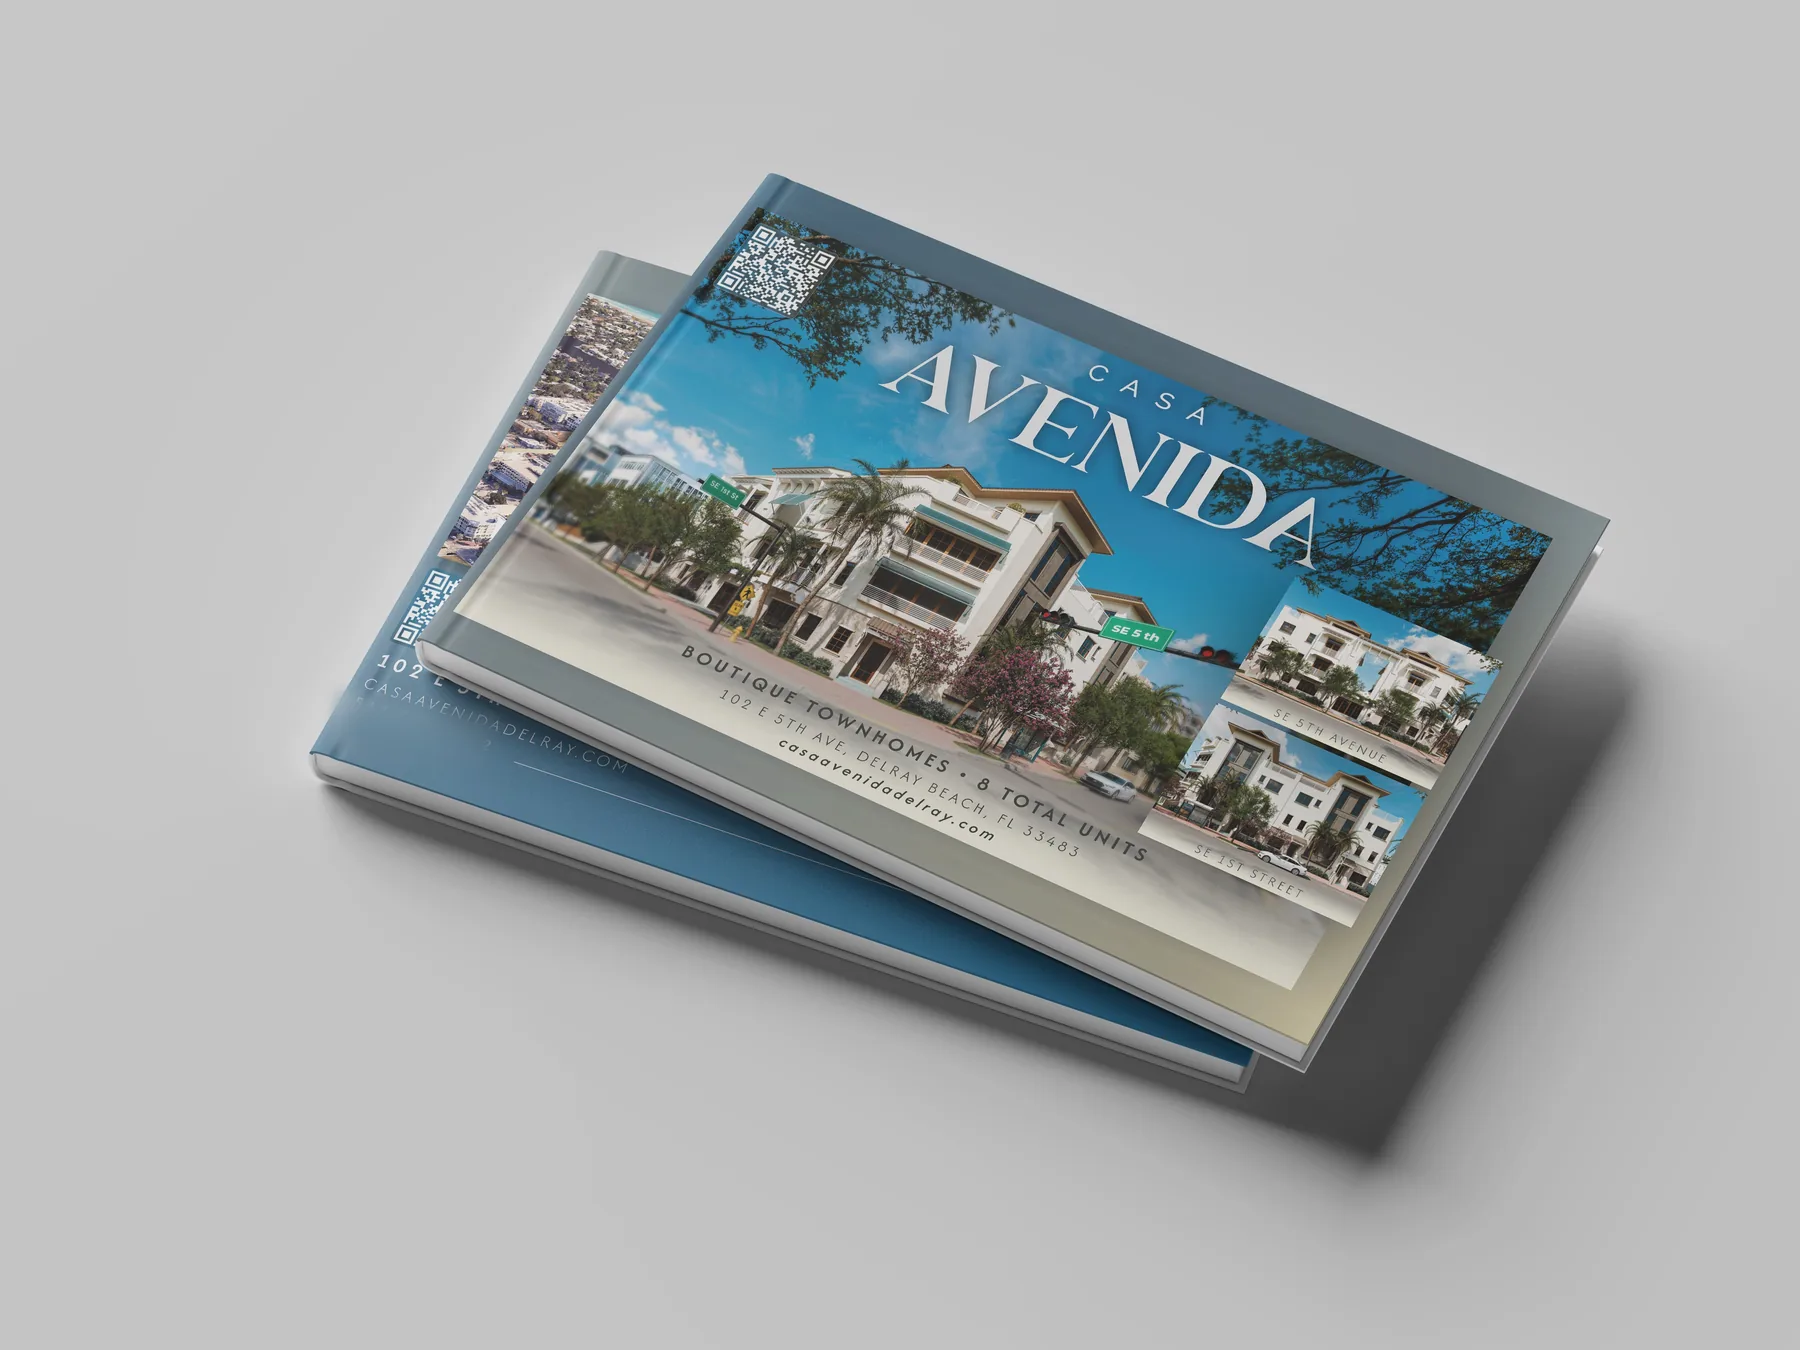
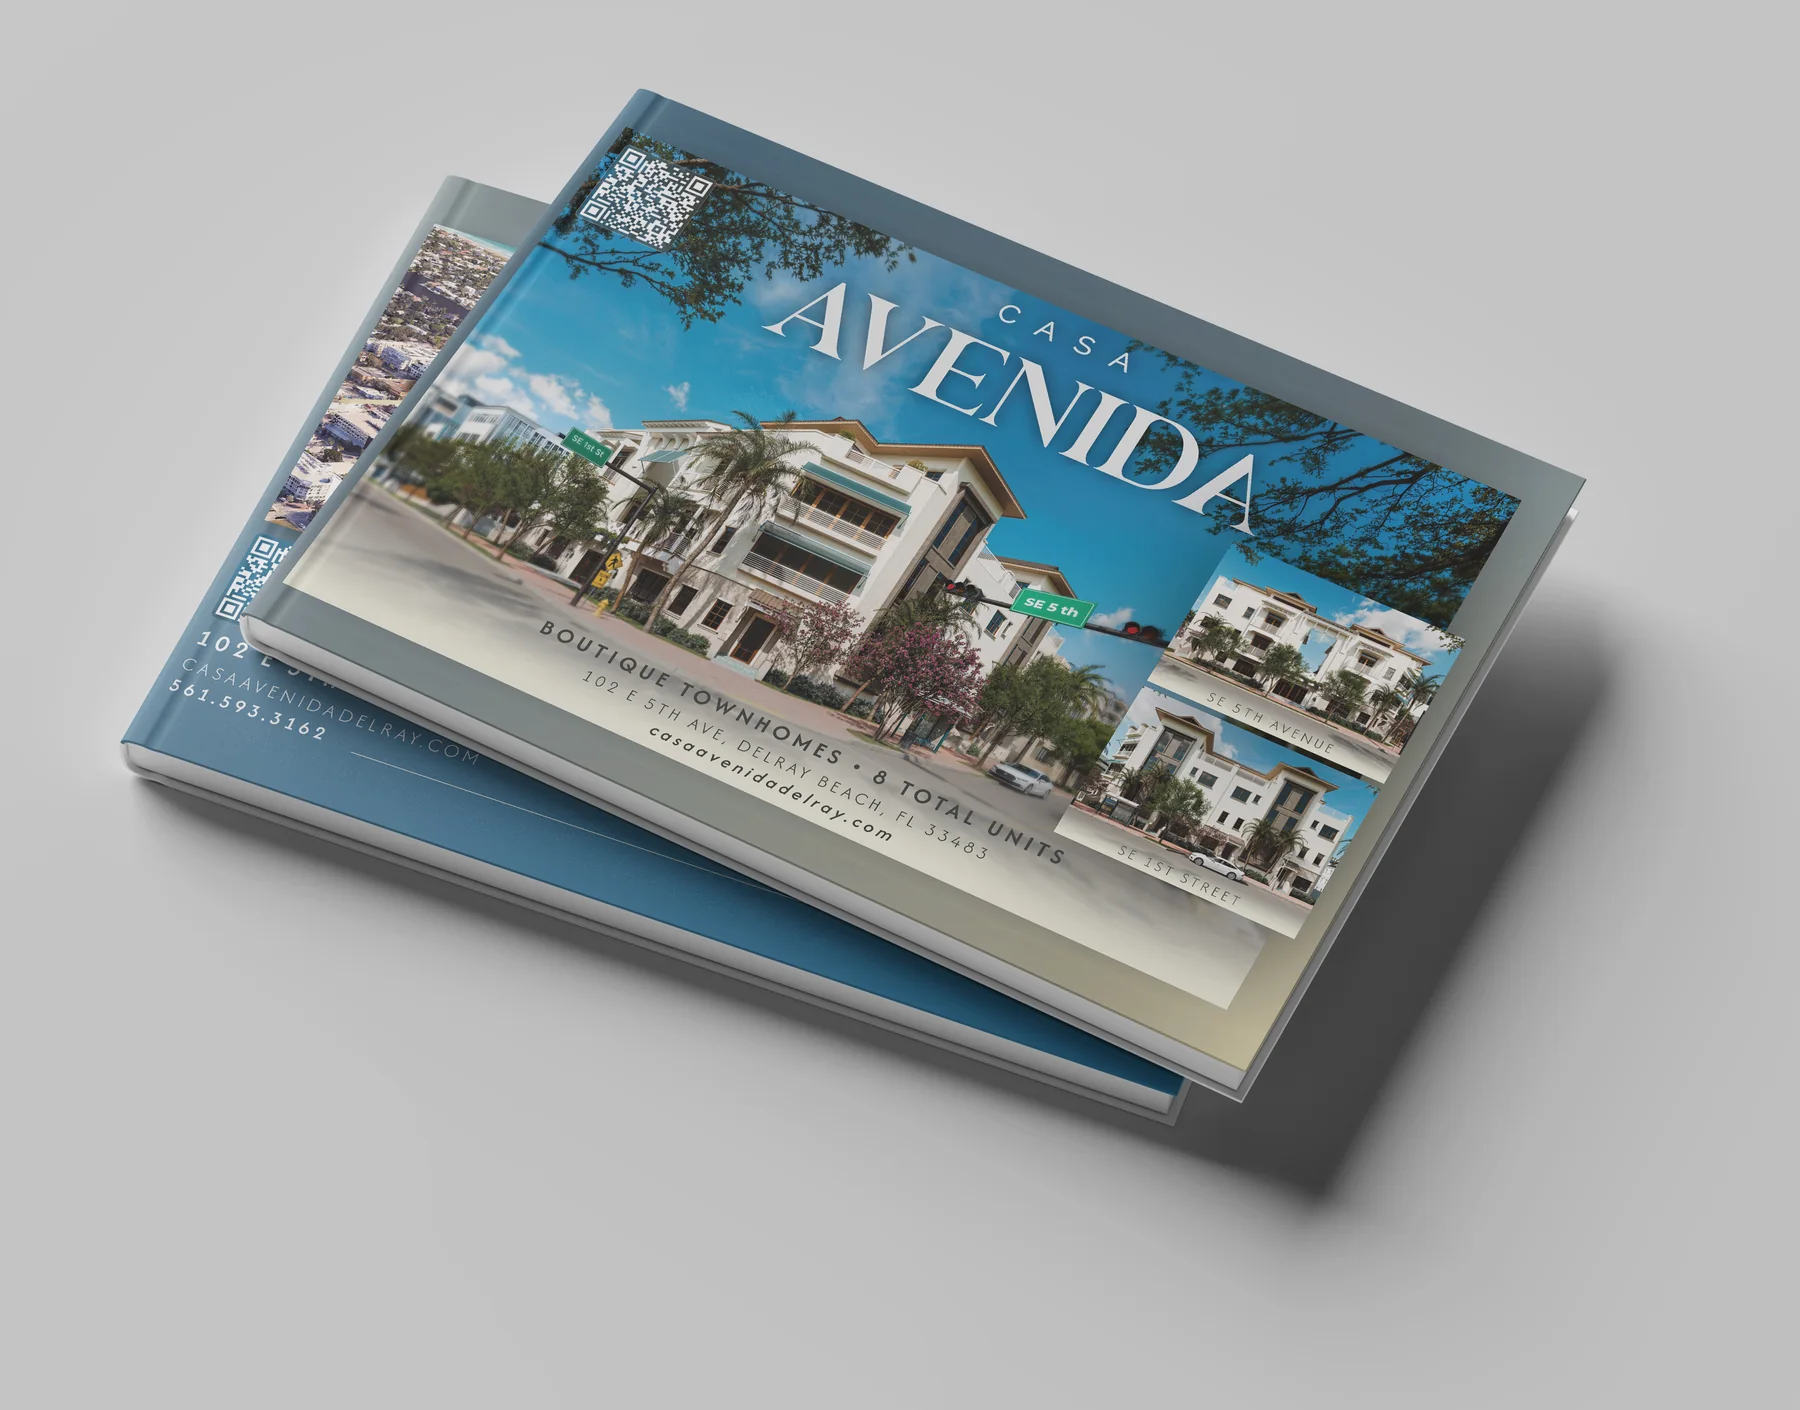
Use unblurred marketing materials with tight crops, add Casa Haven ads, floor plan book and Instagram, show section title once
Claude-Session: https://claude.ai/code/session_01WiGBB2hP8hffz95gNZYeco

diff --git a/src/lib/seed.ts b/src/lib/seed.ts
@@ -117,10 +117,10 @@ export const SEED_PROJECTS: Project[] = [
         { title: 'Fact sheet and floor plans', cols: 1, images: [
           { src: asset('/projects/le-reve/kit/factsheet-floorplan-mockup.webp'), alt: 'Le Rêve fact sheet and unit floor plan mockup' },
         ] },
-        { title: 'Trifold and Art Basel', note: 'Generic and event versions of the trifold for the Art Basel Comes to Boca event on December 7, 2026, which also had an invitation, a postcard and a parking map. Phone numbers are blurred.', cols: 1, images: [
+        { title: 'Trifold and Art Basel', note: 'Generic and event versions of the trifold for the Art Basel Comes to Boca event on December 7, 2026, which also had an invitation, a postcard and a parking map.', cols: 1, images: [
           { src: asset('/projects/le-reve/kit/trifold-mockup.webp'), alt: 'Le Rêve trifold mockup' },
         ] },
-        { title: 'Site signage', note: 'Four signs for the sales site, October 2025, designed with Ilin Graves: sold units, agents, pool lifestyle and living lifestyle. Agent photos, names and phone numbers are blurred.', cols: 2, images: [
+        { title: 'Site signage', note: 'Four signs for the sales site, October 2025, designed with Ilin Graves: sold units, agents, pool lifestyle and living lifestyle.', cols: 2, images: [
           { src: asset('/projects/le-reve/kit/sign-sold.webp'), alt: 'Le Rêve sold units sign' },
           { src: asset('/projects/le-reve/kit/sign-agents.webp'), alt: 'Le Rêve agents sign' },
           { src: asset('/projects/le-reve/kit/sign-pool.webp'), alt: 'Le Rêve pool lifestyle sign' },
@@ -187,8 +187,18 @@ export const SEED_PROJECTS: Project[] = [
         { title: 'Tear sheet and fact sheet', cols: 1, images: [
           { src: asset('/projects/casa-avenida/kit/tear-sheet-mockup.webp'), alt: 'Casa Avenida fact sheet and finishes tear sheet mockup' },
         ] },
-        { title: 'Email campaign', note: 'Six emails from November 2025 to January 2026. Agent photos are blurred.', cols: 1, images: [
+        { title: 'Email campaign', note: 'Six emails from November 2025 to January 2026.', cols: 1, images: [
           { src: asset('/projects/casa-avenida/kit/email-mockup.webp'), alt: 'Casa Avenida email campaign on three phones' },
+        ] },
+        { title: 'Haven magazine ads', note: 'Full-page ads in Haven magazine for October 2025, November 2025 and January 2026.', cols: 1, images: [
+          { src: asset('/projects/casa-avenida/kit/haven-ads.webp'), alt: 'Casa Avenida Haven magazine ads' },
+          { src: asset('/projects/casa-avenida/kit/haven-ad-jan.webp'), alt: 'Casa Avenida Haven magazine ad, January 2026' },
+        ] },
+        { title: 'Floor plan book', note: 'A book of branded floor plans for the residences, February 2026.', cols: 1, images: [
+          { src: asset('/projects/casa-avenida/kit/floorplan-book.webp'), alt: 'Casa Avenida floor plan book mockup' },
+        ] },
+        { title: 'Instagram', note: 'Behind the Build stories featuring the architect and the developer, February 2026.', cols: 1, images: [
+          { src: asset('/projects/casa-avenida/kit/instagram.webp'), alt: 'Casa Avenida Behind the Build Instagram stories on three phones' },
         ] },
         { title: 'Groundbreaking event', note: 'The event banner and folded brochure for the April 30, 2026 groundbreaking ceremony.', cols: 1, images: [
           { src: asset('/projects/casa-avenida/kit/groundbreaking-mockup.webp'), alt: 'Casa Avenida groundbreaking brochure mockup' },
@@ -202,7 +212,7 @@ export const SEED_PROJECTS: Project[] = [
           { src: asset('/projects/casa-avenida/kit/board-bedroom.webp'), alt: 'Casa Avenida primary bedroom rendering board' },
           { src: asset('/projects/casa-avenida/kit/board-terrace.webp'), alt: 'Casa Avenida terrace rendering board' },
         ] },
-        { title: 'Fence wrap', note: 'One panel of the construction fence wrap, March 2026, designed with Ilin Graves. Agent photos and contact details are blurred.', cols: 1, images: [
+        { title: 'Fence wrap', note: 'One panel of the construction fence wrap, March 2026, designed with Ilin Graves.', cols: 1, images: [
           { src: asset('/projects/casa-avenida/kit/fence-wrap.webp'), alt: 'Casa Avenida fence wrap panel' },
         ] },
         { title: 'Brand guidelines', cols: 1, images: [
@@ -280,7 +290,7 @@ export const SEED_PROJECTS: Project[] = [
         { label: 'Team', value: 'Design by me' },
       ],
       sections: [
-        { title: 'Trifold', note: 'Team photos, contact details and team figures are blurred.', cols: 1, images: [
+        { title: 'Trifold', cols: 1, images: [
           { src: asset('/projects/619-bradley/kit/trifold-mockup.webp'), alt: '619 Bradley Ave property trifold mockup' },
         ] },
       ],
@@ -328,7 +338,7 @@ export const SEED_PROJECTS: Project[] = [
     stack: { Framework: ['Framer'], Data: ['Framer CMS', 'Property Sync automation'] },
     kit: {
       sections: [
-        { title: 'Haven magazine ad', note: 'A full-page ad from September 2025, designed with Ilin Graves. Faces, contact details and team figures are blurred.', cols: 1, images: [
+        { title: 'Haven magazine ad', note: 'A full-page ad from September 2025, designed with Ilin Graves.', cols: 1, images: [
           { src: asset('/projects/the-gvc-team/kit/haven-ad-mockup.webp'), alt: 'The GVC Team Haven magazine ad mockup' },
         ] },
       ],

diff --git a/src/lib/engine.ts b/src/lib/engine.ts
@@ -264,7 +264,7 @@ function swapBackground(id: SectionId) {
 function renderContent(id: SectionId) {
   const s = byId(id);
   contentEl.hidden = false;
-  contentEl.innerHTML = `<div class="panel"><header class="panel-head"><div class="no">${s.stampName}</div><h1 tabindex="-1">${s.label}</h1></header><div class="panel-body">${s.html}</div></div>`;
+  contentEl.innerHTML = `<div class="panel"><header class="panel-head"><div class="no">${s.no}</div><h1 tabindex="-1">${s.label}</h1></header><div class="panel-body">${s.html}</div></div>`;
   contentEl.scrollTop = 0;
   document.title = `${s.label} · ${SITE.name}`;
   stopFilmStrip();
